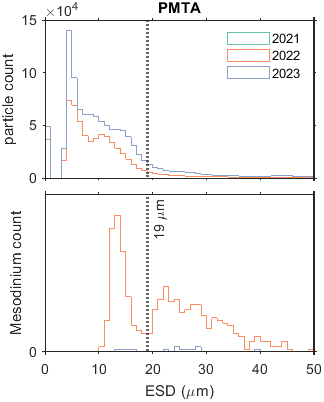
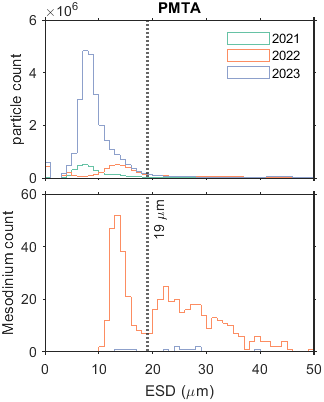
revised pmta plot

diff --git a/NOAA/BuddInlet/plot_histogram_BI.m b/NOAA/BuddInlet/plot_histogram_BI.m
@@ -79,7 +79,7 @@ subplot(2,1,1)
     set(gca,'xlim',[0 50],'xticklabel',{},'fontsize',10,'tickdir','out');
     ylabel('particle count','fontsize',11)
     xline(19,':','linewidth',1.5); hold on;    
-   % legend('2021','2022','2023'); legend boxoff;    
+%    legend('2021','2022','2023'); legend boxoff;    
     legend('2021 (g.63, t.138)','2022 (g.60, t.125)','2023 (g.70, t.140)'); legend boxoff;
     title('PMTB')
 
@@ -88,7 +88,7 @@ yrlist=[2021;2022;2023];
 for i=1:length(yrlist)
     idx=(dt.Year==yrlist(i));
     histogram(cell2mat([ESD(idx)]),0:1:70,'DisplayStyle','stairs','edgecolor',c(i,:)); hold on
-    set(gca,'xlim',[0 50],'xtick',0:10:50,'ytick',0:250:500, ...
+    set(gca,'xlim',[0 50],'xtick',0:10:50,...
        'fontsize',10,'tickdir','out'); hold on;    
     ylabel('particle count','fontsize',11)
 end
